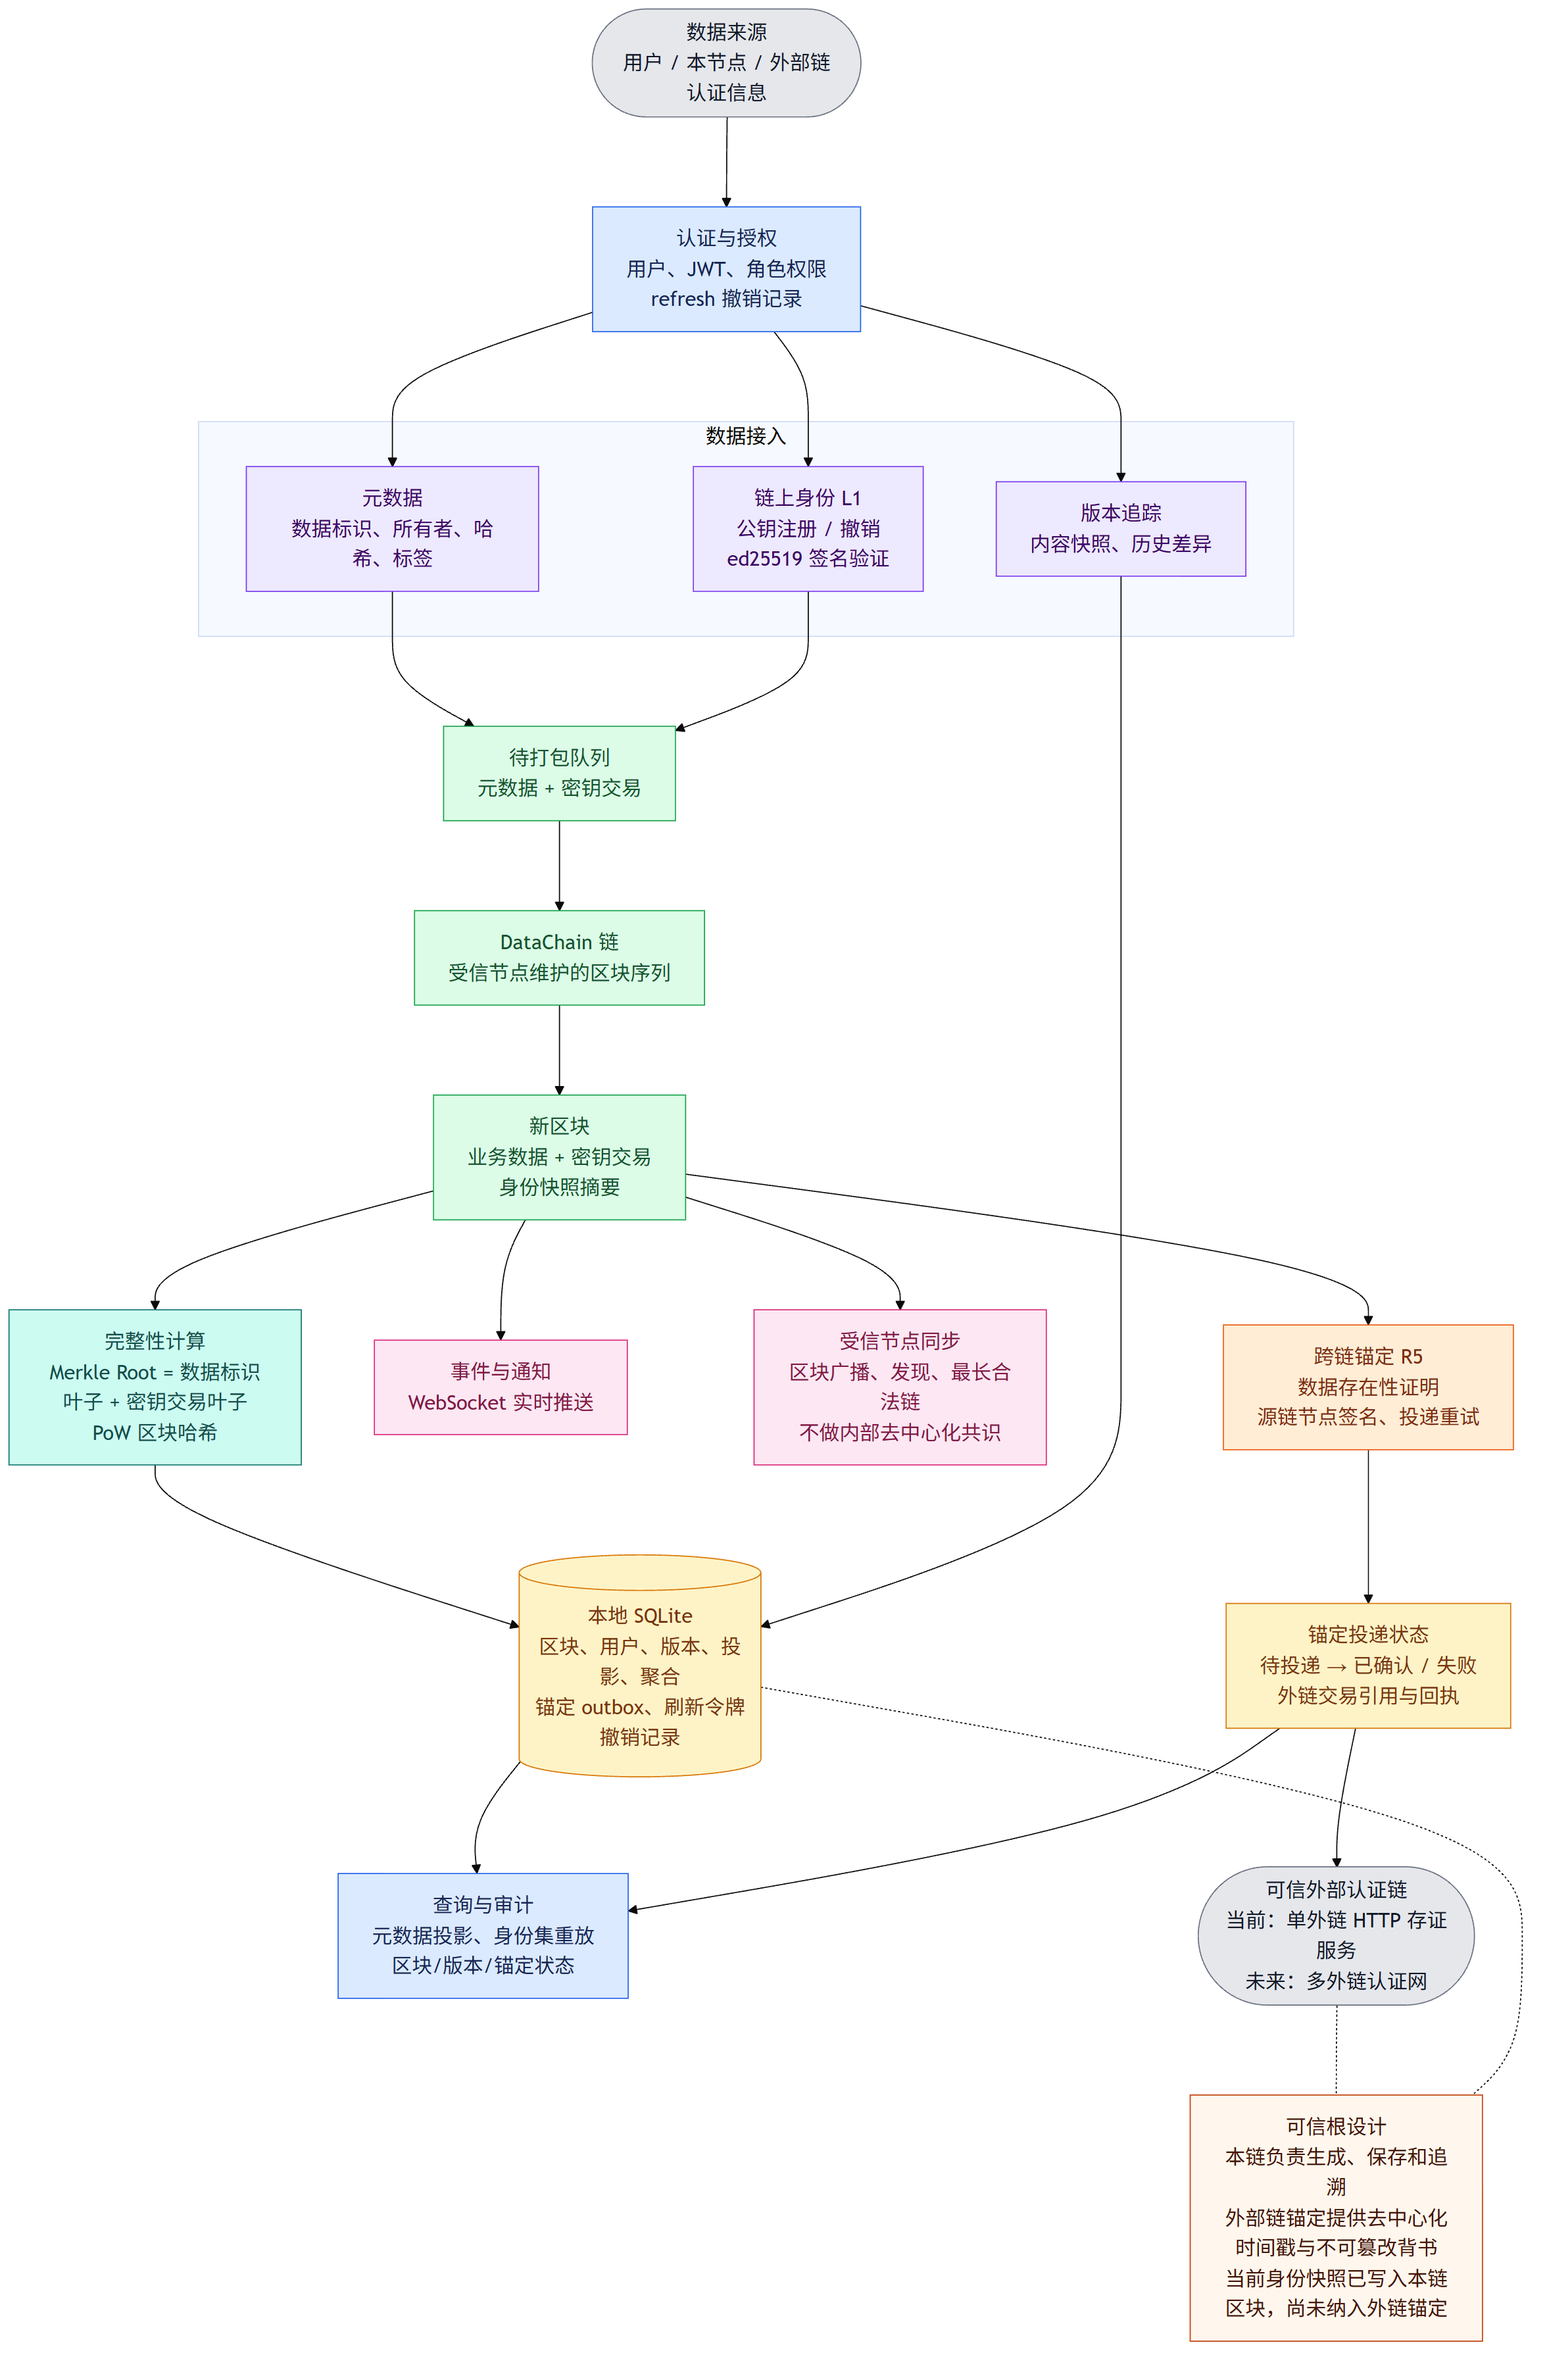
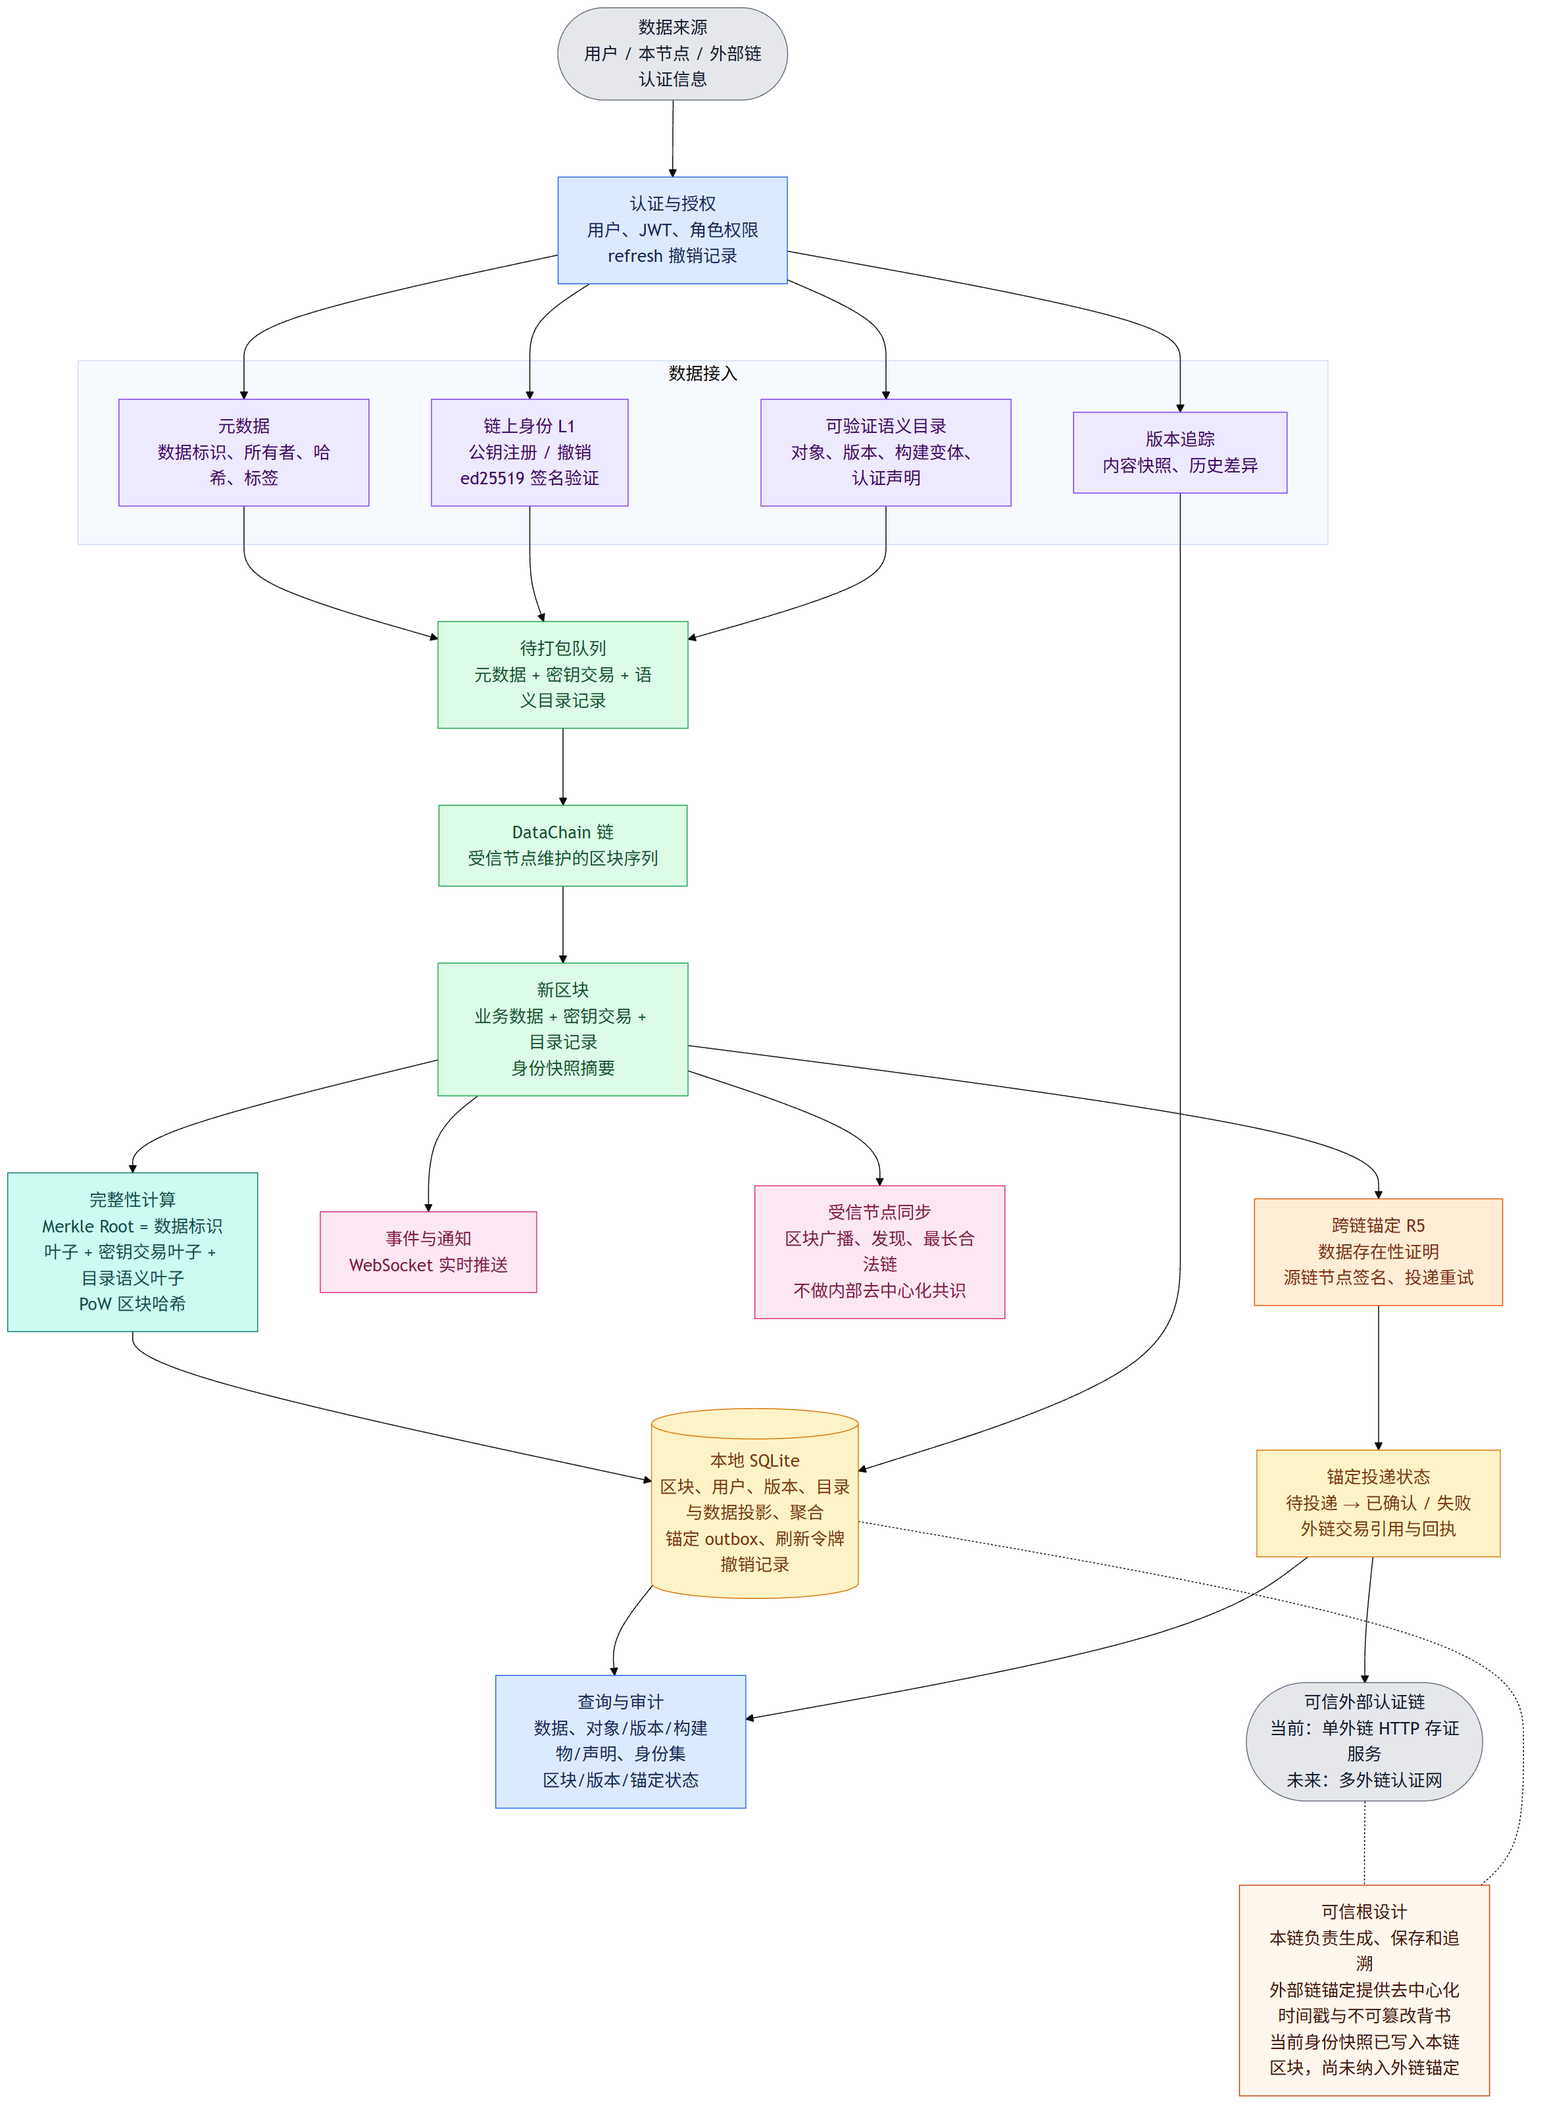
docs: 同步可验证语义目录与认证网设计
- 新增 CERTIFICATION_NETWORK.md：Subject→Revision→Artifact、可撤销 Claim、完整语义承诺、
  当前边界与 L2-L5 路线图
- README：增加认证网文档入口、语义目录能力/API、验证计数与未实现边界
- IMPLEMENTATION_STATUS：更新 d97cd94、目录 API/存储投影/Merkle 语义承诺/测试计数与后续 backlog
- FLOW：更新全节点与架构图，新增可验证语义目录简略图 FLOW-S7

纯文档，附 d97cd94 与 247 验证证据（lib 75/api 9/ws 8、fmt/clippy 通过）

diff --git a/docs/CERTIFICATION_NETWORK.md b/docs/CERTIFICATION_NETWORK.md
@@ -1,0 +1,117 @@
+# 跨链认证网与可验证语义目录
+
+> 最后核实:2026-10-18，对应代码提交 `d97cd94`。
+> 本文描述已确认的认证网方向与当前实现边界。多外链批次认证、外链阶段回写、失信切换、封存重启仍未实现，见文末路线图。
+
+## 设计基调
+
+DataChain 是受信节点维护的数据追溯链，**有意不在内部实现拜占庭去中心化共识**。
+本链负责生成、保存、追溯和验证记录；关键数据与身份状态将逐步锚定到多个可信外部认证链，借外链的公开时间戳和不可篡改性提供去中心化背书。
+
+其他链向本链登记认证信息时，走本链正常的记录、验证和区块生成流程，不需要特殊接收协议。
+
+## 已实现：可验证语义目录
+
+### 统一对象关系
+
+```text
+Subject（长期逻辑对象）
+  └─ Revision（不可变内容版本）
+       └─ Artifact（构建或配置变体）
+
+Claim（认证声明）可指向 Subject、Revision 或 Artifact。
+```
+
+| 类型 | 用途 | 关键内容 |
+|---|---|---|
+| Subject | 文章、代码库、软件包或其他长期跟踪对象 | 稳定标识、对象类型、显示名称、来源引用 |
+| Revision | 对象的一次不可变内容状态 | 内容哈希、父版本、来源版本引用 |
+| Artifact | 同一版本的构建/配置变体 | 构建产物哈希、配置哈希、平台 |
+| Claim | 有来源的认证/风险/支持结论 | 分类、状态、证据、认证者身份与公钥、时间范围、覆盖关系 |
+
+Claim 分类采用可扩展命名空间约定，例如：
+
+```text
+support.lts
+support.mainline
+quality.verified
+quality.trusted
+lifecycle.deprecated
+risk.vulnerability
+risk.malware
+risk.dangerous
+```
+
+Claim 不是永久标签。它记录“谁在何时依据什么证据，对哪个对象作出什么结论”。后续修正、撤销或新结论通过新的 Claim 追加，并用 `supersedes_claim_id` 建立覆盖关系，历史不被删除。
+
+### 语义完整性承诺
+
+旧 metadata 的 Merkle 叶子只承诺 `data_id`。新目录记录采用固定字段顺序和长度前缀的规范化语义负载：
+
+```text
+catalog-v1 + 记录类型 + 签发身份 + 签发公钥 + 全部业务字段
+```
+
+认证者用已登记的 ed25519 公钥签名该负载。记录进入新区块时，其语义哈希作为 Merkle 叶子，与元数据和密钥交易一起受区块哈希与 PoW 保护。
+
+这使后续外链锚定能够证明完整的版本、构建物和 Claim 语义，而非只证明某个 `data_id` 存在。
+
+### 当前提交与查询流程
+
+```text
+已上链有效身份公钥
+  → 签名 Subject / Revision / Artifact / Claim
+  → 记录进入持久化待打包队列
+  → 正常挖矿进入 block.catalog_records
+  → 语义叶子进入 merkle_root
+  → 同事务写入查询投影
+  → 按对象、版本、构建物和 Claim 查询
+```
+
+提交时会校验：
+
+- 签名数学有效；
+- 签发公钥是当前有效的链上身份；
+- Subject、Revision、Artifact、Claim 的稳定主标识不重复；
+- Revision 引用的 Subject、Artifact 引用的 Revision、Claim 引用的目标对象均存在；
+- Claim 有至少一个作用目标、证据引用和合法生效时间范围。
+
+## 已实现 API
+
+| 方法 | 路径 | 用途 |
+|---|---|---|
+| POST | `/api/v1/catalog/records` | 提交已签名的 Subject、Revision、Artifact 或 Claim，进入待打包队列 |
+| GET | `/api/v1/catalog/subjects/:subject_id` | 查询逻辑对象登记记录 |
+| GET | `/api/v1/catalog/subjects/:subject_id/revisions` | 查询对象的已上链版本历史 |
+| GET | `/api/v1/catalog/revisions/:revision_id/artifacts` | 查询版本的构建/配置变体 |
+| GET | `/api/v1/catalog/subjects/:subject_id/claims` | 查询对象的全部 Claim 历史 |
+
+提交需要 `BlockMine` 权限，查询需要 `BlockRead` 权限。
+
+## 当前边界与未实现项
+
+- Claim 查询当前返回完整历史，尚未实现按“认证者信任策略、有效时间、撤销/覆盖链”计算单一当前结论的 resolver。
+- Claim 分类是命名空间约定，尚未实现集中分类字典、认证者角色治理或不同认证机构的信任权重策略。
+- Subject / Revision / Artifact 的稳定标识由提交方提供；当前不做全局命名注册或跨链名称冲突裁决。
+- 目录记录已持久化到 pending 队列并可随服务重启恢复；投影是查询加速副本，区块中的 `catalog_records` 才是权威事实。
+- 现有 legacy metadata 继续以 `data_id` 承诺，历史区块不重写；新的目录记录从 `catalog-v1` 开始具备完整语义承诺。
+- 当前跨链锚定仍是单条 `data_id`、单外链的 R5 模式；目录记录和身份快照尚未进入外链认证批次。
+
+## 后续路线图
+
+1. **L2：批次认证与多外链投递**
+   - 覆盖上一次最终认证后产生的新区块；
+   - 按区块完整性摘要聚合批次根；
+   - 覆盖目录语义记录与身份快照；
+   - 多个 HTTP connector 并行投递，互不阻塞本链出块。
+2. **L3：外链阶段回写**
+   - 将 initiated、submitted、finalized、failed 等语义阶段作为专门锚定事件写入后续区块；
+   - 回写事件引用此前本链认证批次记录和外链交易引用。
+3. **L4：外链健康与失信切换**
+   - 运行故障自动降级；
+   - 信任失效由管理员人工停用；
+   - 历史外链回执永久保留。
+4. **L5：人工封存与新链启用**
+   - 封存旧链、保留旧链终态摘要和外链认证历史；
+   - 创建新的初始管理密钥；
+   - 将旧链摘要作为新链初始认证记录，确保认证历史可追溯而不丢失。

diff --git a/README.md b/README.md
@@ -2,7 +2,8 @@
 
 > 实现状态与未完成需求见本仓库 `IMPLEMENTATION_STATUS.md`；该文档是独立仓库的回顾入口。
 > 基于现有代码的完整流程图(模块级 + 带数据字段)见 `docs/FLOW.md`。
-> 最后核实:2026-10-18(进度至 R7 + backlog #4/#3/#6/#5 + 跨链认证网 L1 链上身份含端到端测试,提交 `8b5ecf1`)。
+> 跨链认证网、可验证语义目录与后续路线图见 `docs/CERTIFICATION_NETWORK.md`。
+> 最后核实:2026-10-18(进度至可验证语义目录基础,提交 `d97cd94`)。
 >
 > R0-R7 已在 247 服务器 docker `rust:latest` 完成 `cargo check/test/fmt/clippy` 与 HTTP smoke 验证:
 > - R1 安全:公开注册固定普通用户、RBAC 路由权限、JWT issuer/audience + refresh jti 一次性撤销、
@@ -18,10 +19,14 @@
 >   16KiB 消息上限/256 连接上限),`97eeee5` 247 验证 8 passed。
 > - backlog #3 refresh token 持久化 + token-family 复用检测 `1124baa`:撤销落 SQLite(重启不失忆)、
 >   复用触发整族撤销、并发双花以 jti 主键唯一性收口、启动清理过期撤销行。
-> - 共 62 单测 + 12 集成测试(api 4 + websocket 8)通过。
+> - 跨链认证网 L1 链上身份:公钥登记/撤销、ed25519 验签、身份快照摘要，身份交易进入 Merkle 根。
+> - 可验证语义目录 `d97cd94`:Subject→Revision→Artifact + 带签名/证据/时间范围/覆盖关系的 Claim；
+>   完整语义进入区块 Merkle 根，持久化待打包队列与查询投影；`/api/v1/catalog/*` 端点。
+> - 共 75 单测 + 17 集成测试(api 9 + websocket 8)通过。
 >
-> ⚠ 仍未实现:P2P 共识与同长度分叉选择(单一诚实源假设)、跨链密钥轮换/链上身份注册、
-> WebSocket 频道隔离(`/ws/chain` 等当前为全量广播,服务端不按频道过滤)、设备会话管理。
+> ⚠ 当前仍未实现:多外链批次认证、外链认证阶段回写本链、外链失信切换、人工封存后新链启用、
+> Claim 信任策略与有效状态 resolver、WebSocket 频道隔离(`/ws/chain` 等当前为全量广播)、设备会话管理。
+> P2P 内部不做去中心化共识是有意设计，可信根逐步由外部认证链锚定提供。
 > 具体以 `IMPLEMENTATION_STATUS.md` 为准。
 
 数据追溯区块链系统 - Rust 实现
@@ -32,6 +37,7 @@
 - **多哈希支持**: MD5, SHA-256, SHA-3, bcrypt, scrypt, Argon2, PBKDF2
 - **认证系统**: JWT 令牌、RBAC 权限控制
 - **元数据管理**: 数据追溯、标签、查询
+- **可验证语义目录**: Subject→Revision→Artifact、带签名/证据/时间范围的 Claim、风险与长期支持等可追溯声明
 - **汇总引擎**: 时间/数量策略、递归父聚合(多层合并)
 - **版本控制**: 文件追踪、内容快照、历史差异
 - **跨链锚定**: 完整 Merkle proof、ed25519 节点签名、ChainAnchor/回执、outbox 重试投递
@@ -194,6 +200,19 @@ datachain version diff <v1> <v2>
 | POST | /api/v1/identity/key-transaction | 提交密钥交易(register/revoke) |
 | GET | /api/v1/identity/keys | 当前有效密钥集 |
 | GET | /api/v1/identity/keys/:public_key | 单个公钥状态 |
+
+### 可验证语义目录
+
+> Subject 表示长期逻辑对象，Revision 表示不可变内容版本，Artifact 表示构建或配置变体。
+> Claim 是带签名、证据、时间范围和覆盖关系的认证、支持、质量或风险声明；记录进入普通新区块并纳入 Merkle 根。
+
+| 方法 | 路径 | 描述 |
+|------|------|------|
+| POST | /api/v1/catalog/records | 提交已签名 Subject、Revision、Artifact 或 Claim |
+| GET | /api/v1/catalog/subjects/:subject_id | 查询对象登记记录 |
+| GET | /api/v1/catalog/subjects/:subject_id/revisions | 查询对象版本历史 |
+| GET | /api/v1/catalog/revisions/:revision_id/artifacts | 查询版本的构建/配置变体 |
+| GET | /api/v1/catalog/subjects/:subject_id/claims | 查询对象全部认证声明历史 |
 
 ### 版本
 

diff --git a/docs/FLOW.md b/docs/FLOW.md
@@ -4,7 +4,7 @@
 > `npx -y @mermaid-js/mermaid-cli@11.4.2 -i docs/<名>.mmd -o docs/<名>.png -b white -s 3 -p docs/.puppeteer.json`
 >
 > - **全节点简略图**:`docs/FLOW-0-simple.png`(源 `FLOW-0-simple.mmd`)——覆盖全链路关键节点、数据与计算，不展示接口或调用细节
-> - **业务简略分图**：认证(`FLOW-S1-auth`)、数据上链(`FLOW-S2-data`)、链上身份(`FLOW-S3-identity`)、存储恢复(`FLOW-S4-storage`)、版本与汇总(`FLOW-S5-version-aggregation`)、对外传播与锚定(`FLOW-S6-distribution`)——覆盖各节点业务流转，不展示接口、字段、SQL 或内部调用
+> - **业务简略分图**：认证(`FLOW-S1-auth`)、数据上链(`FLOW-S2-data`)、链上身份(`FLOW-S3-identity`)、存储恢复(`FLOW-S4-storage`)、版本与汇总(`FLOW-S5-version-aggregation`)、对外传播与锚定(`FLOW-S6-distribution`)、可验证语义目录(`FLOW-S7-catalog`)——覆盖各节点业务流转，不展示接口、字段、SQL 或内部调用
 > - 架构总览:`docs/FLOW.png`(源 `FLOW.mmd`)——只画模块与数据流向
 > - 链路 A 元数据:`docs/FLOW-A-metadata.png`(源 `FLOW-A-metadata.mmd`)——带字段/计算
 > - 链路 B 链上身份 L1:`docs/FLOW-B-identity.png`(源 `FLOW-B-identity.mmd`)
@@ -43,6 +43,10 @@
 
 ![传播与锚定流程](./FLOW-S6-distribution.png)
 
+### 可验证语义目录与认证声明
+
+![可验证语义目录流程](./FLOW-S7-catalog.png)
+
 ## 技术细节图
 
 > 以下内容保留接口、字段、计算和调用信息，适合实现或审计时查阅。
@@ -63,7 +67,7 @@
 
 ![数据锚定链路](./FLOW-C-anchor.png)
 
-> 最后核实:2026-10-18,对应最新代码提交 `8b5ecf1`(跨链认证网 L1 含端到端验证)。
+> 最后核实:2026-10-18,对应最新代码提交 `d97cd94`(可验证语义目录与完整 Claim 承诺基础)。
 > 本文仅描述**已实现并经 247 验证**的行为;未实现的 L2(多外链锚定)/L3(锚定进展回写)/
 > L4(失信切换)/L5(封存重启) 不在此图内,见 `IMPLEMENTATION_STATUS.md` 第四节后续建议。
 > 状态变化时需按 `.kiro/steering/doc-maintenance.md` 同步更新本文与核实提交。
